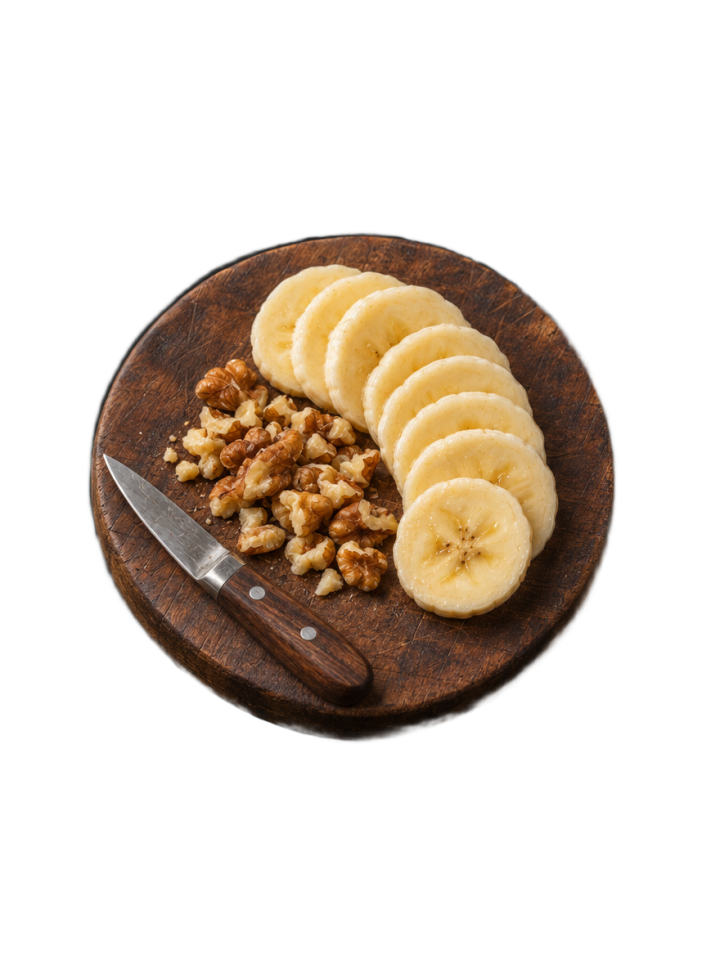
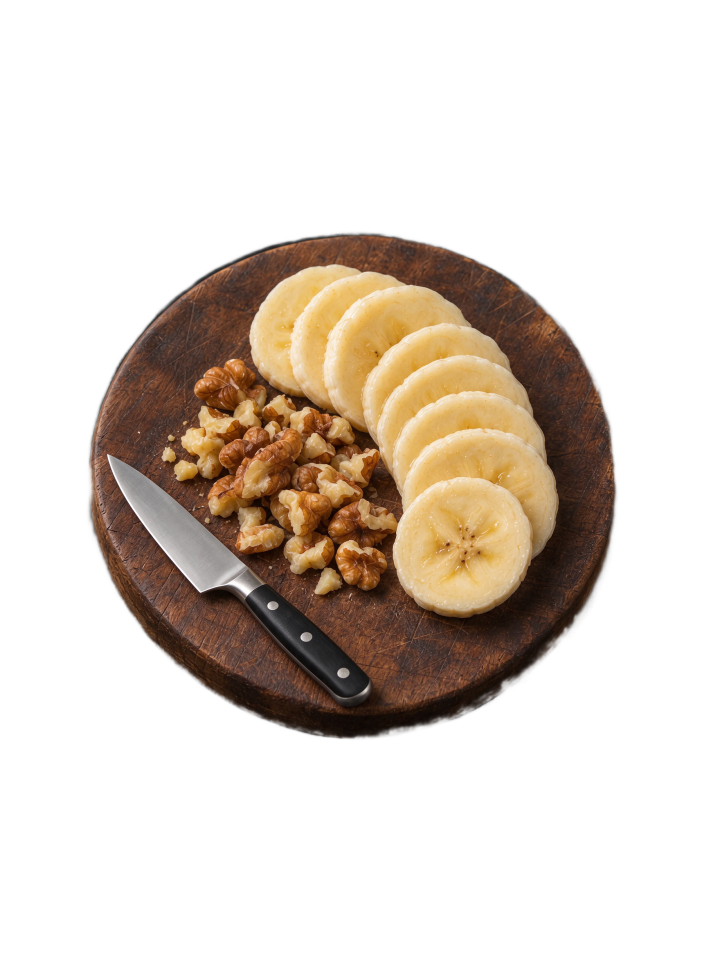
Cooking ways in one strip split by a slash; chef's knife on cutting steps

diff --git a/src/components/swipe/SwipeCard.tsx b/src/components/swipe/SwipeCard.tsx
@@ -1,6 +1,6 @@
 import { Image } from 'expo-image';
 import { router } from 'expo-router';
-import { useState } from 'react';
+import { useState, Fragment } from 'react';
 import { Pressable, ScrollView, Text, View } from 'react-native';
 import { useSafeAreaInsets } from 'react-native-safe-area-context';
 import { Equip, SwipeRecipe } from '../../data/swipe';
@@ -55,15 +55,19 @@ export function SwipeCard({ r }: { r: SwipeRecipe }) {
         <Text style={[body, { marginTop: 10 * k }]}>{r.lead}</Text>
 
         <Text style={label}>ЧИМ ГОТУЄШ</Text>
-        <View style={{ flexDirection: 'row', gap: 10 * k }}>
-          {r.modes.map((x) => {
+        {/* All ways of cooking in one strip, split by a slash: tap one to see its steps. */}
+        <View style={{ flexDirection: 'row', alignItems: 'center', borderRadius: 16 * k, borderWidth: 1, borderColor: LINE, padding: 4 * k }}>
+          {r.modes.map((x, i) => {
             const on = x.key === mode;
             return (
-              <Pressable key={x.key} onPress={() => setMode(x.key)} accessibilityRole="button" accessibilityState={{ selected: on }}
-                style={{ flex: 1, flexDirection: 'row', alignItems: 'center', gap: 10 * k, paddingVertical: 10 * k, paddingHorizontal: 12 * k, borderRadius: 14 * k, borderWidth: 1, borderColor: on ? FG : LINE, backgroundColor: on ? FG : 'transparent' }}>
-                <EquipIcon kind={x.key} fill={on ? INK : MUTED} face={on ? FG : '#2a2a2b'} size={34 * k} />
-                <Text style={{ fontFamily: body700, fontSize: 14 * k, color: on ? INK : MUTED }}>{x.label}</Text>
-              </Pressable>
+              <Fragment key={x.key}>
+                {i > 0 && <Text style={{ fontFamily: body400, fontSize: 26 * k, color: MUTED, marginHorizontal: 4 * k }}>/</Text>}
+                <Pressable onPress={() => setMode(x.key)} accessibilityRole="button" accessibilityState={{ selected: on }}
+                  style={{ flex: 1, flexDirection: 'row', alignItems: 'center', justifyContent: 'center', gap: 8 * k, paddingVertical: 8 * k, paddingHorizontal: 8 * k, borderRadius: 12 * k, backgroundColor: on ? FG : 'transparent' }}>
+                  <EquipIcon kind={x.key} fill={on ? INK : MUTED} face={on ? FG : '#2a2a2b'} size={30 * k} />
+                  <Text style={{ fontFamily: body700, fontSize: 14 * k, color: on ? INK : MUTED }}>{x.label}</Text>
+                </Pressable>
+              </Fragment>
             );
           })}
         </View>

diff --git a/src/data/swipe.ts b/src/data/swipe.ts
@@ -223,7 +223,7 @@ const tost: SwipeRecipe = {
   frames: {
     bowl1: { src: require('../../assets/recipes/tost/bowl1.webp') },
     bowl2: { src: require('../../assets/recipes/tost/bowl2.webp') },
-    cut: { src: require('../../assets/recipes/tost/cut.webp') },
+    cut: { src: require('../../assets/recipes/tost/cut.png') },
     p0: { src: require('../../assets/recipes/tost/p0.webp'), heat: 0.25 },
     p1: { src: require('../../assets/recipes/tost/p1.webp'), heat: 0.85 },
     plate1: { src: require('../../assets/recipes/tost/plate1.png'), heat: 0.35 },
